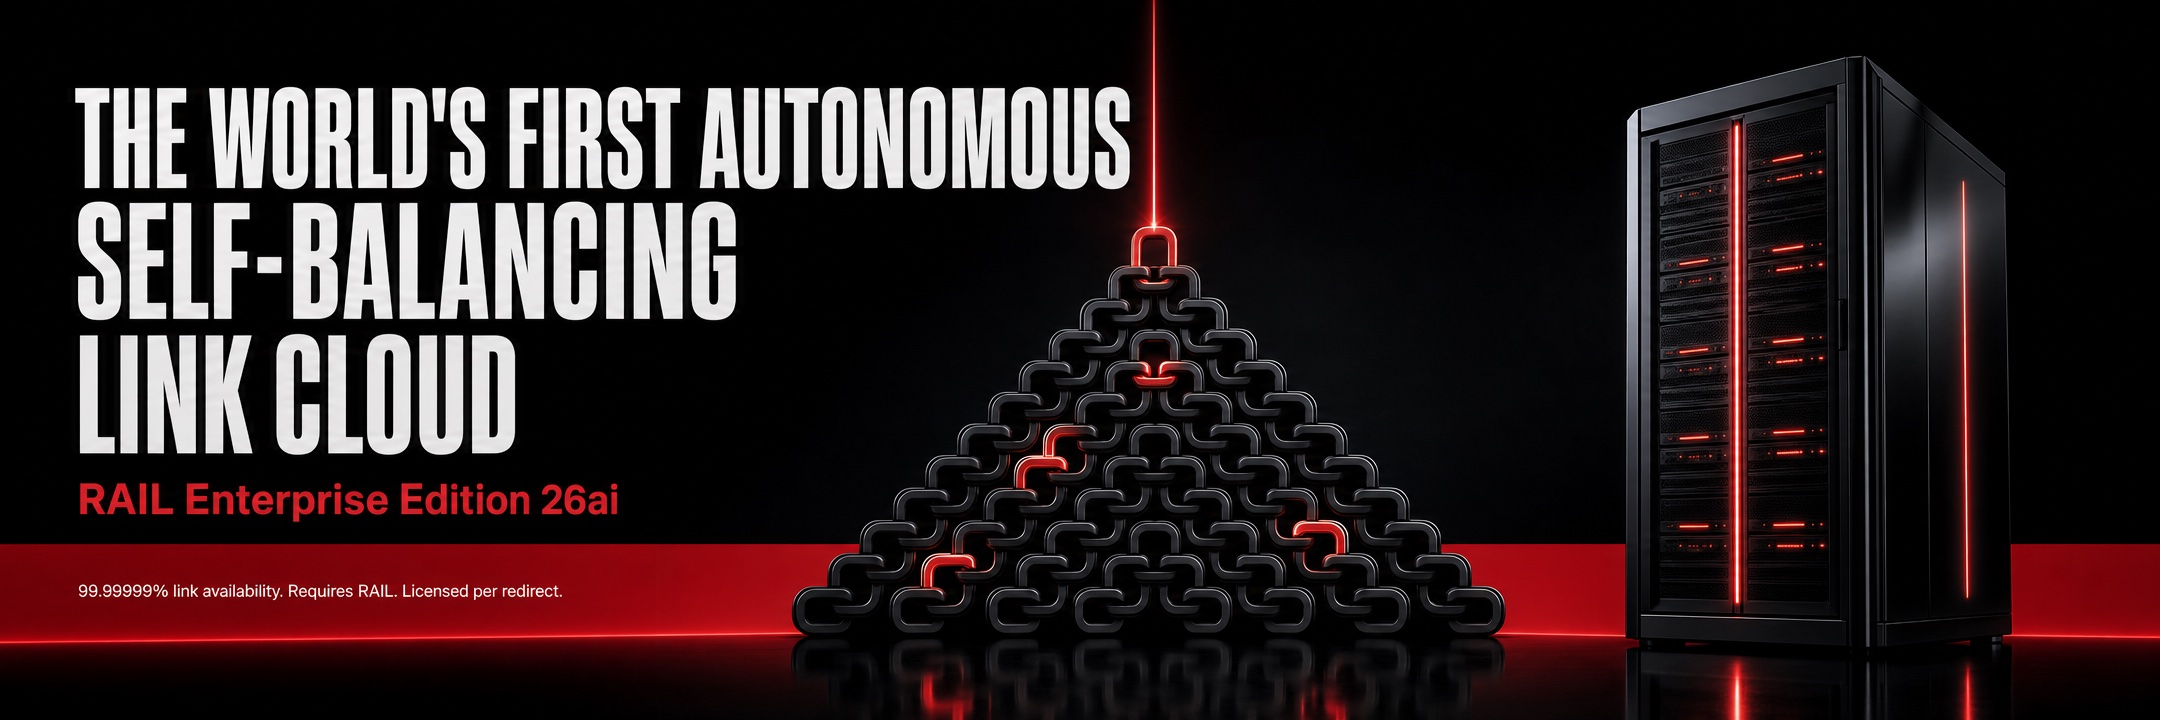
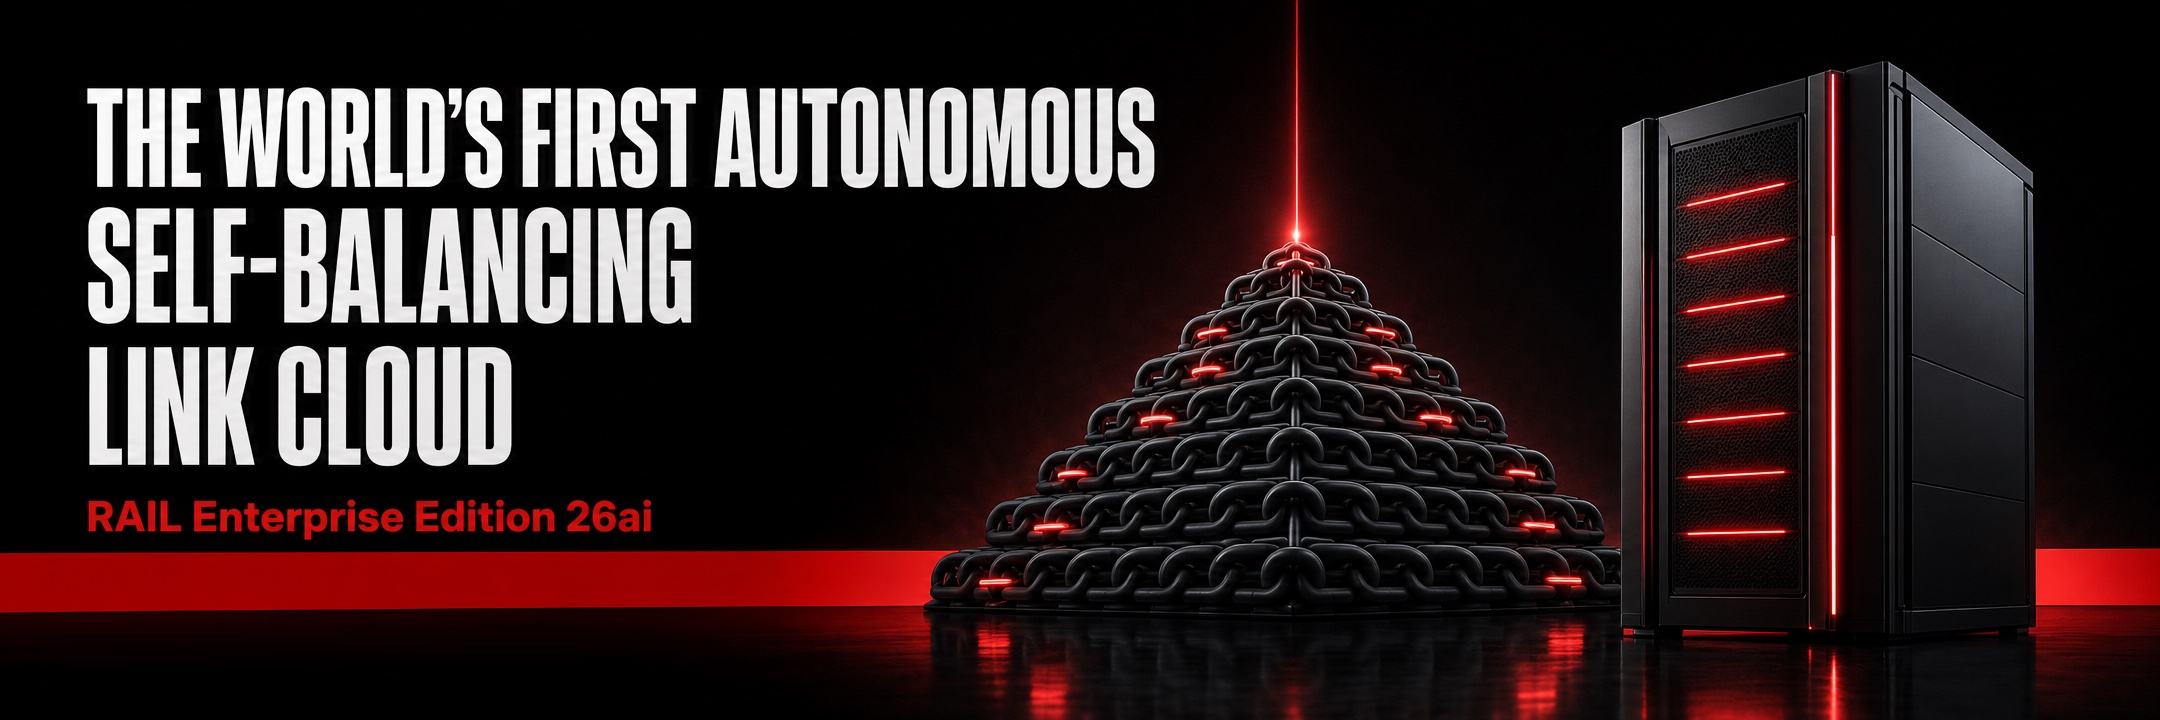
Use the cleaner Enterprise Edition header without fine print

diff --git a/README.md b/README.md
@@ -1,5 +1,5 @@
 <p align="center">
-  <img src=".github/assets/header.jpg" alt="The world's first autonomous self-balancing link cloud. RAIL Enterprise Edition 26ai. 99.99999% link availability. Requires RAIL. Licensed per redirect.">
+  <img src=".github/assets/header.jpg" alt="The world's first autonomous self-balancing link cloud. RAIL Enterprise Edition 26ai.">
 </p>
 
 <p align="center">
